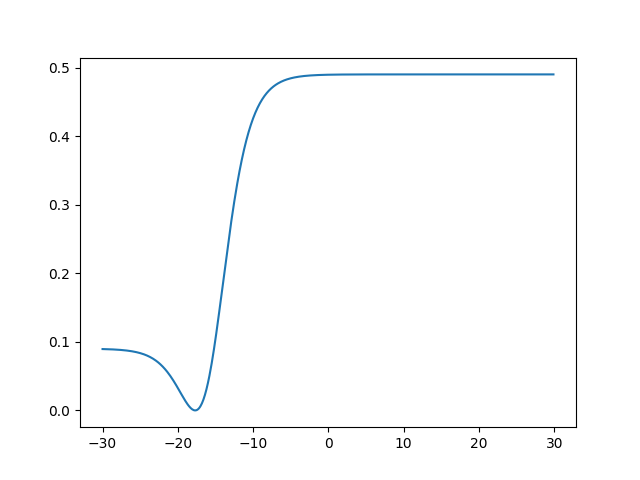
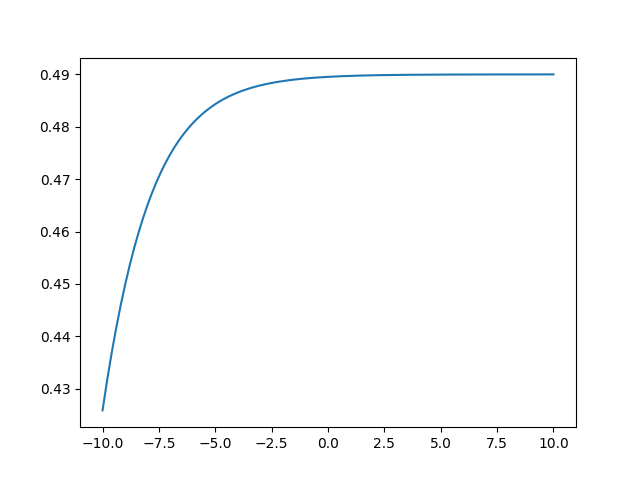
some texts for weekly meeting presentation

diff --git a/week_1/task5/final2.py b/week_1/task5/final2.py
@@ -1,3 +1,4 @@
+#Sayısal türev (numerical derivative) ile basit bir gradient descent döngüsü kur: parametreyi küçük adımlarla güncelleyerek loss'u düşür.
 import math
 import matplotlib.pyplot as plt
 
@@ -42,6 +43,6 @@ for step in range(2000):
     weights[0] = weights[0] - learning_rate * loss_derivative
 
 forward_pass_result = forward_pass(weights, input_values, bias)
-print("final loss:", loss(forward_pass_result, target))
+print("final loss:", loss(forward_pass_result, target)) #0.000000000027562500004208057
 print("Final weight:", weights[0])
 print("final_der",loss_derivative)

diff --git a/week_1/task2/fp_m_func.py b/week_1/task2/fp_m_func.py
@@ -1,3 +1,4 @@
+#Birden fazla nörondan oluşan küçük bir katman kur, forward pass'i buna genişlet.
 import math
 
 weights = [[2.5, 1.5, 3.0], [2.5, 1.5, 3.0], [2.5, 1.5, 3.0]] #nöronun kendisine ait bir özellik bu weightler

diff --git a/week_1/task4/guess.py b/week_1/task4/guess.py
@@ -1,3 +1,4 @@
+#Parametreleri manuel değiştirerek loss'un nasıl değiştiğini gözlemle, loss eğrisini çiz.
 import math
 import matplotlib.pyplot as plt
 

diff --git a/week_1/task3/fp_m_func2.py b/week_1/task3/fp_m_func2.py
@@ -1,3 +1,4 @@
+#Basit bir loss fonksiyonu yaz.
 import math
 
 weights = [2.5, 1.5, 3.0] #nöronun kendisine ait bir özellik bu weightler

diff --git a/week_1/task1/forward_pass.py b/week_1/task1/forward_pass.py
@@ -1,3 +1,4 @@
+#Python ile tek nöron forward pass yaz, kütüphane kullanmadan. 
 import math
 weight = 2.5
 input_value = 0.5
